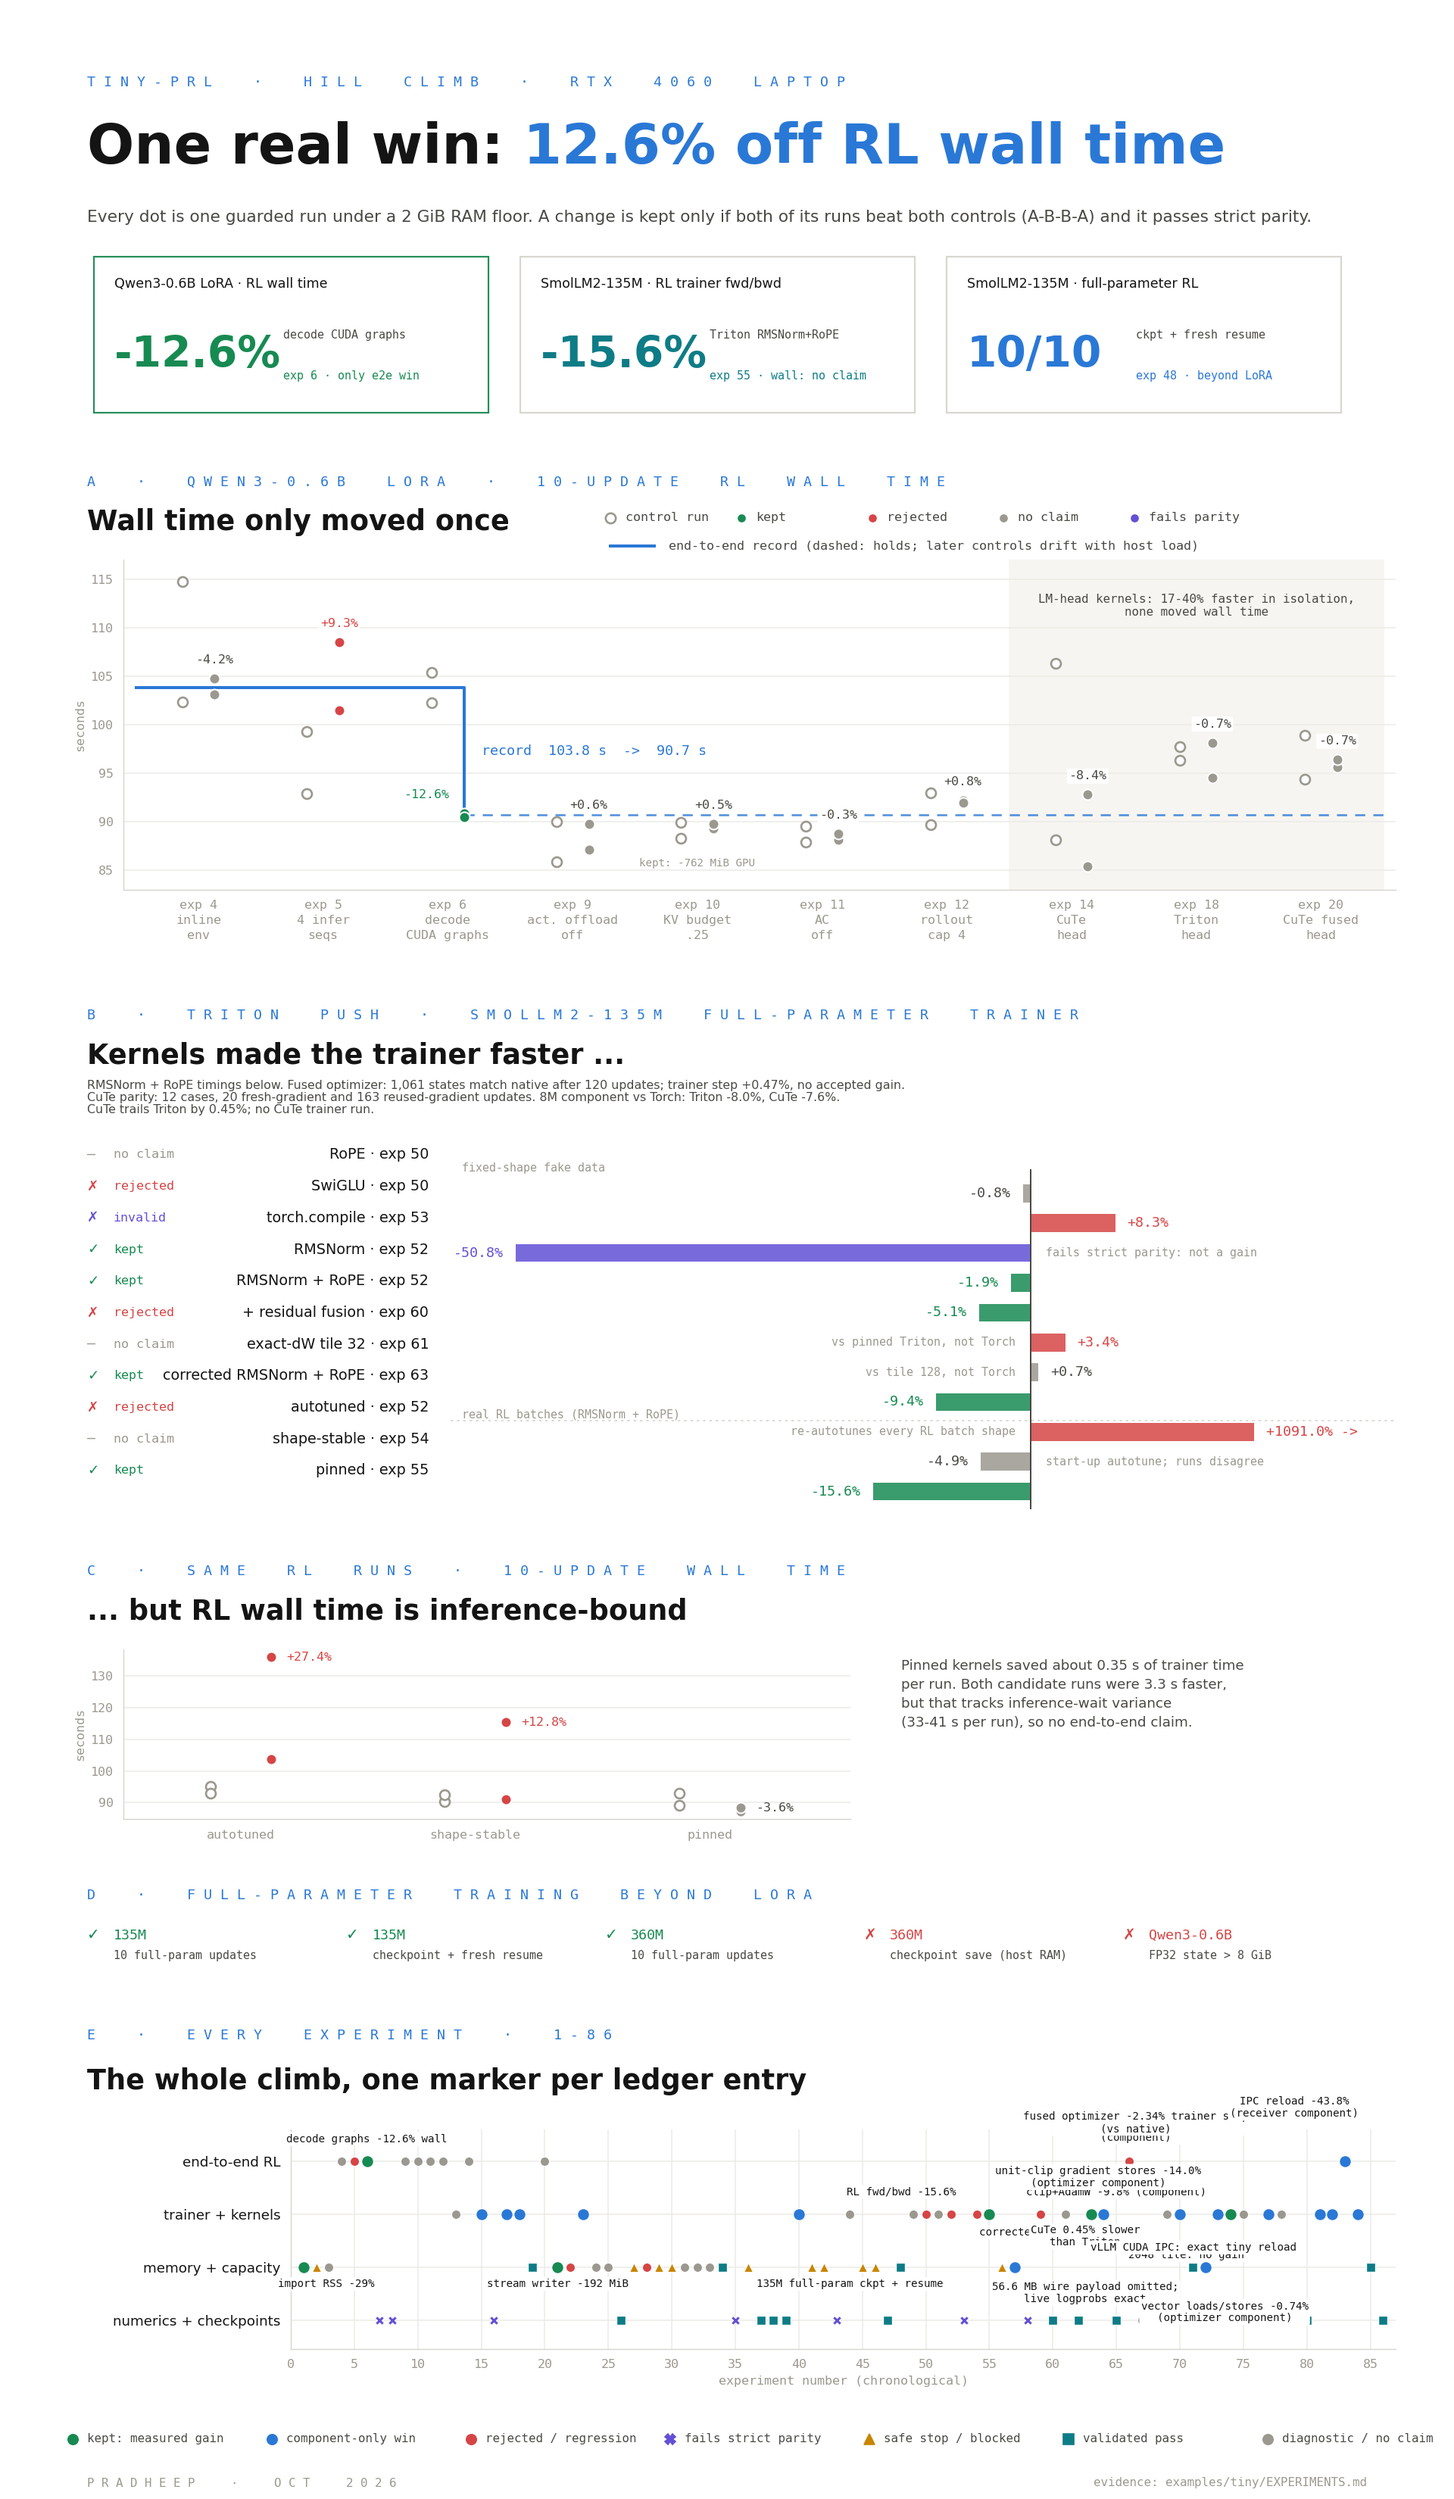
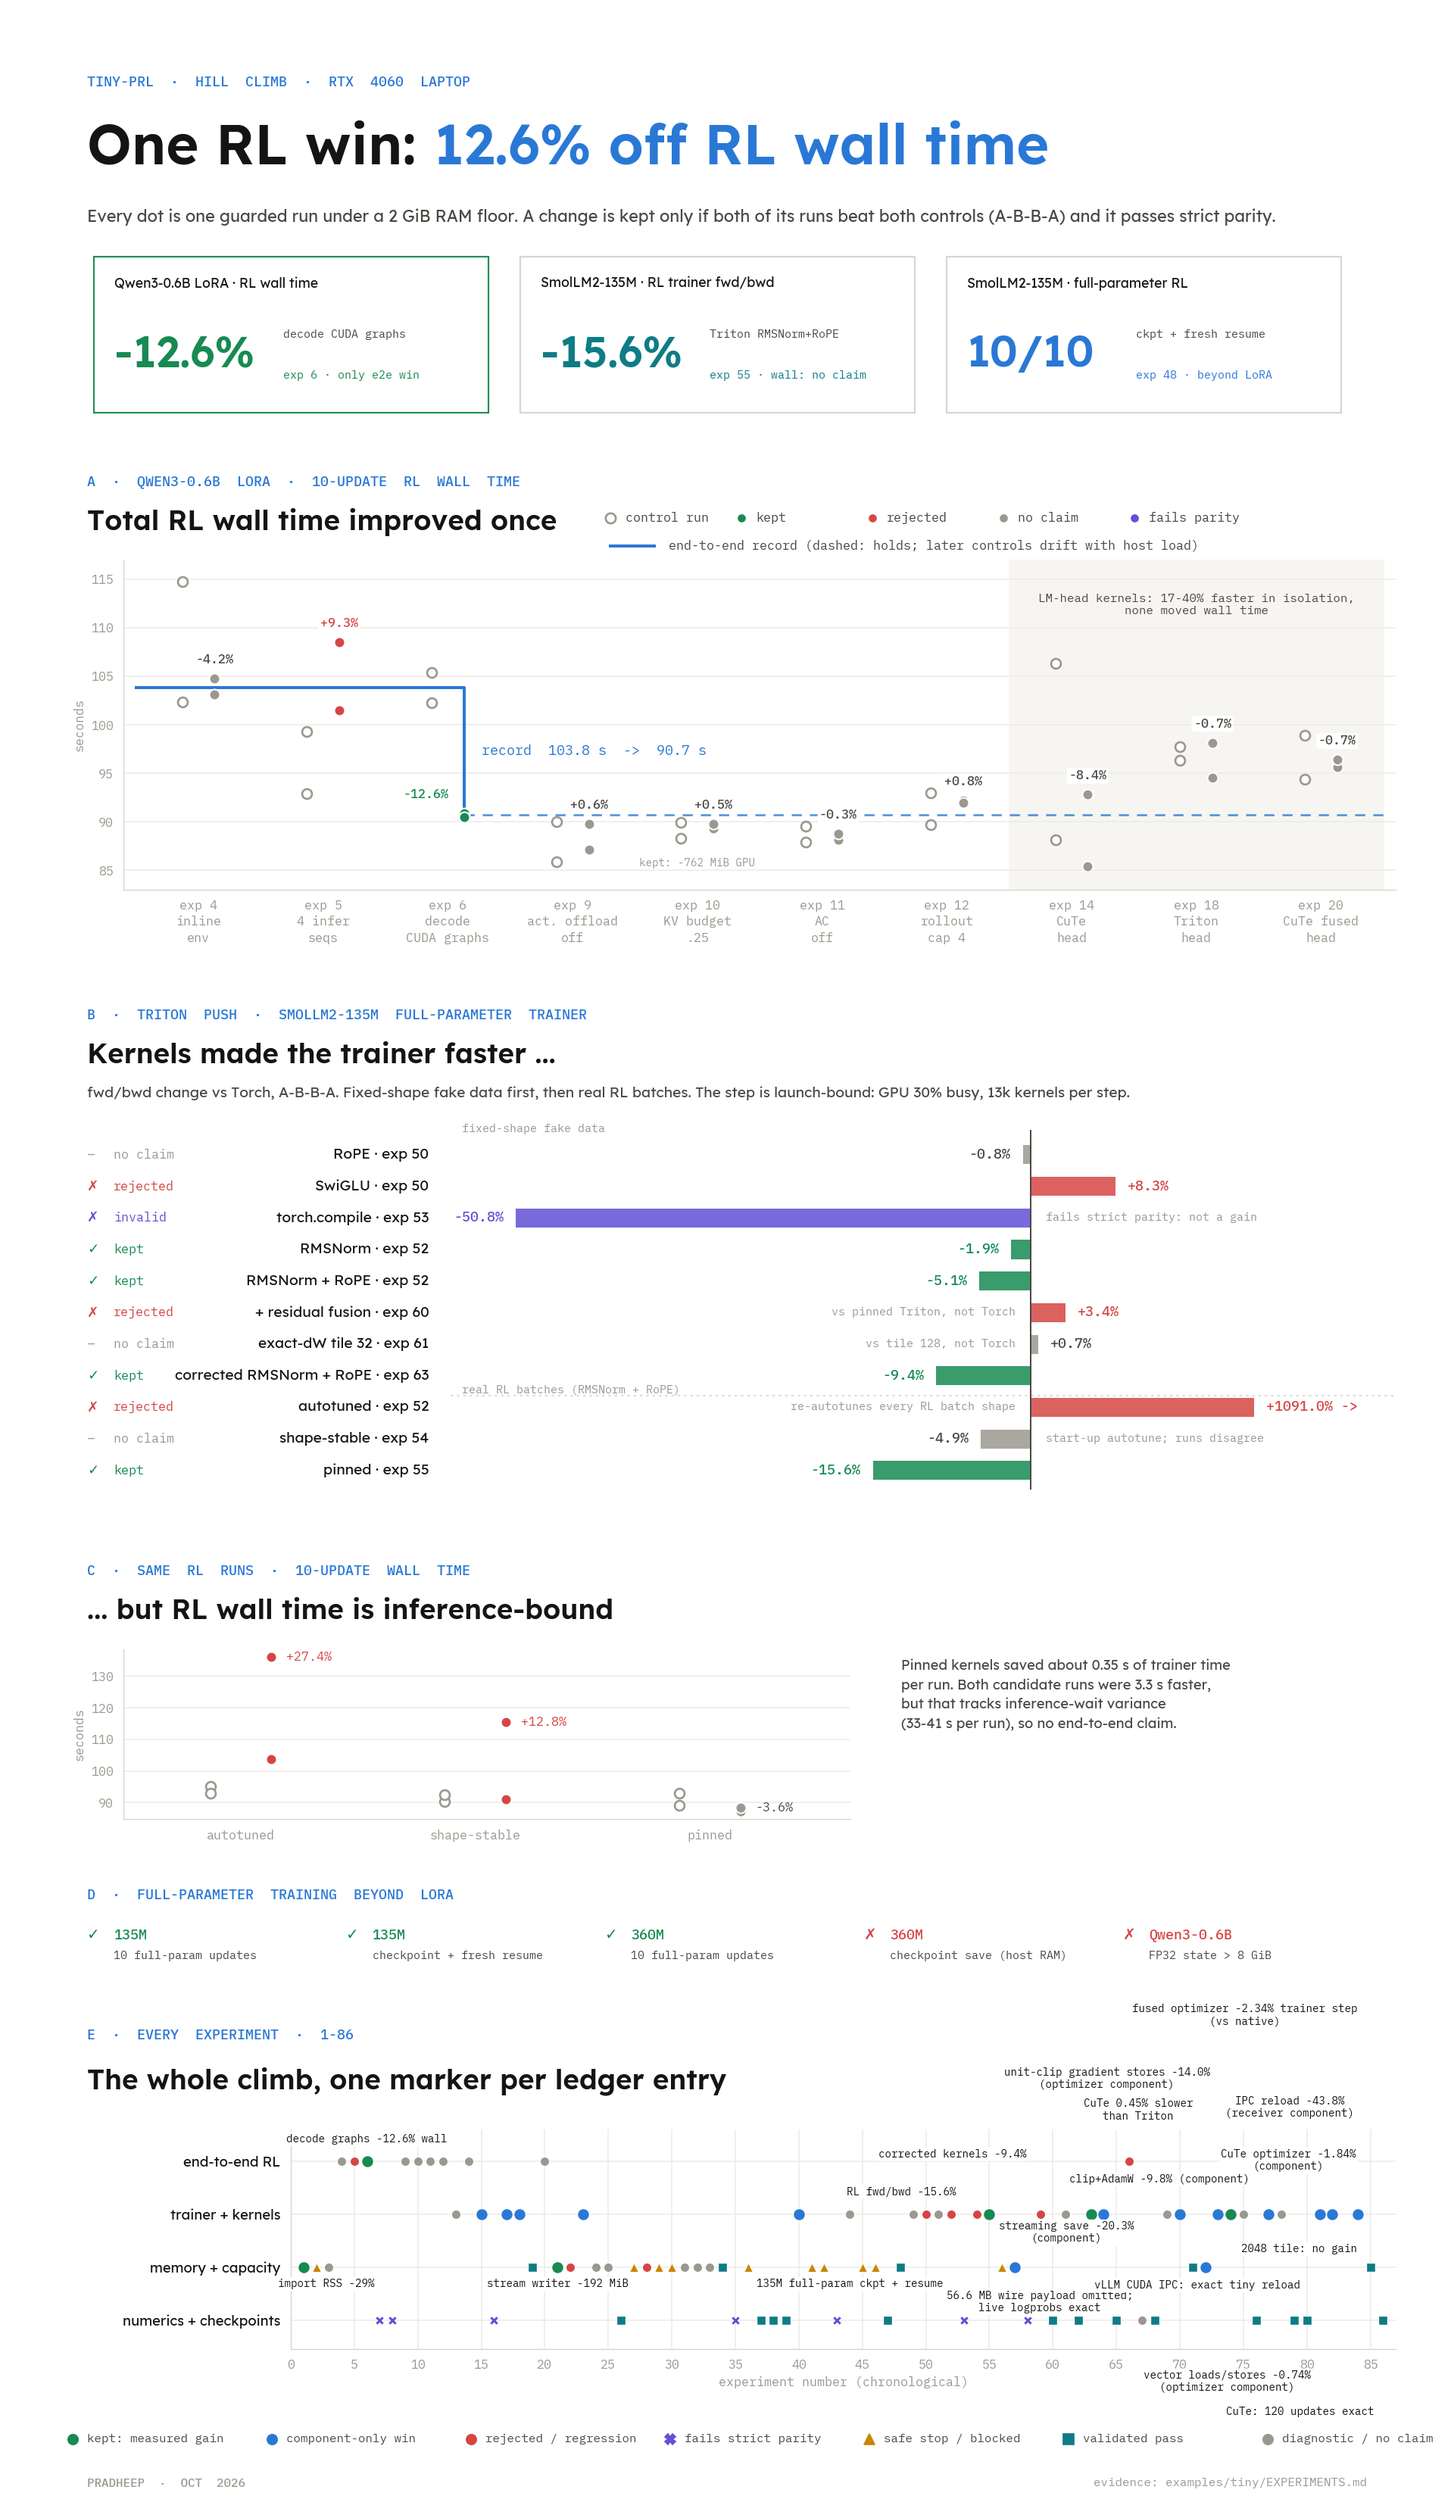
Restore hillclimb fonts and clarify RL timing scope

diff --git a/tools/plot_tiny_hillclimb.py b/tools/plot_tiny_hillclimb.py
@@ -190,17 +190,19 @@ CALLOUTS = {
     21: ("stream writer -192 MiB", (0, -16)),
     48: ("135M full-param ckpt + resume", (-40, -16)),
     55: ("RL fwd/bwd -15.6%", (-70, 15)),
-    63: ("corrected kernels -9.4%", (-30, -17)),
-    64: ("clip+AdamW -9.8% (component)", (10, 15)),
-    70: ("CuTe 0.45% slower\nthan Triton", (-75, -25)),
-    71: ("56.6 MB wire payload omitted;\nlive logprobs exact", (-85, -28)),
-    72: ("streaming save -20.3%\n(component)", (-55, 100)),
-    73: ("unit-clip gradient stores -14.0%\n(optimizer component)", (-95, 22)),
-    74: ("fused optimizer -2.34% trainer step\n(vs native)", (-75, 65)),
-    75: ("2048 tile: no gain", (-45, -35)),
-    77: ("vector loads/stores -0.74%\n(optimizer component)", (-35, -85)),
-    79: ("vLLM CUDA IPC: exact tiny reload", (-80, 55)),
-    83: ("IPC reload -43.8%\n(receiver component)", (-40, 35)),
+    63: ("corrected kernels -9.4%", (-110, 45)),
+    64: ("clip+AdamW -9.8% (component)", (44, 25)),
+    70: ("CuTe 0.45% slower\nthan Triton", (-33, 75)),
+    71: ("56.6 MB wire payload omitted;\nlive logprobs exact", (-121, -35)),
+    72: ("streaming save -20.3%\n(component)", (-110, 20)),
+    73: ("unit-clip gradient stores -14.0%\n(optimizer component)", (-88, 100)),
+    74: ("fused optimizer -2.34% trainer step\n(vs native)", (11, 150)),
+    75: ("2048 tile: no gain", (44, -30)),
+    77: ("vector loads/stores -0.74%\n(optimizer component)", (-33, -140)),
+    79: ("vLLM CUDA IPC: exact tiny reload", (-77, 25)),
+    83: ("IPC reload -43.8%\n(receiver component)", (-44, 35)),
+    84: ("CuTe optimizer -1.84%\n(component)", (-55, 35)),
+    86: ("CuTe: 120 updates exact", (-66, -75)),
 }
 
 MILESTONES = [
@@ -349,7 +351,7 @@ def eyebrow(fig, x, y, text, mono, color=YELLOW, size=11):
     fig.text(
         x,
         y,
-        "  ".join(text.upper().split(" ")).replace("", " ")[1:-1],
+        "  ".join(text.upper().split(" ")),
         fontsize=size,
         color=color,
         fontfamily=mono,
@@ -414,7 +416,7 @@ def main() -> None:
     # Header.
     eyebrow(fig, 0.06, 0.957, "tiny-prl · hill climb · rtx 4060 laptop", mono)
     title_kw = {"fontsize": 44, "fontweight": "semibold", "fontfamily": sans}
-    lead = "One real win: "
+    lead = "One RL win: "
     accent = "12.6% off RL wall time"
     fig.text(0.06, 0.918, lead, color=INK, **title_kw)
     lead_w = text_width(fig, lead, **title_kw)
@@ -462,7 +464,7 @@ def main() -> None:
 
     # Panel A: Qwen LoRA end-to-end record.
     eyebrow(fig, 0.06, 0.757, "a · qwen3-0.6b lora · 10-update rl wall time", mono)
-    fig.text(0.06, 0.735, "Wall time only moved once", fontsize=22, color=INK, fontweight="semibold")
+    fig.text(0.06, 0.735, "Total RL wall time improved once", fontsize=22, color=INK, fontweight="semibold")
     ax = fig.add_axes([0.085, 0.555, 0.875, 0.165])
     style_axes(ax, mono)
     record = None
@@ -531,15 +533,13 @@ def main() -> None:
     fig.text(0.06, 0.468, "Kernels made the trainer faster ...", fontsize=22, color=INK, fontweight="semibold")
     fig.text(
         0.06,
-        0.443,
-        "RMSNorm + RoPE timings below. Fused optimizer: 1,061 states match native after 120 updates; trainer step +0.47%, no accepted gain.\n"
-        "CuTe parity: 12 cases, 20 fresh-gradient and 163 reused-gradient updates. 8M component vs Torch: Triton -8.0%, CuTe -7.6%.\n"
-        "CuTe trails Triton by 0.45%; no CuTe trainer run.",
-        fontsize=9.5,
+        0.451,
+        "fwd/bwd change vs Torch, A-B-B-A. Fixed-shape fake data first, then real RL batches. "
+        "The step is launch-bound: GPU 30% busy, 13k kernels per step.",
+        fontsize=11.5,
         color=INK_2,
-        linespacing=1.1,
     )
-    ax = fig.add_axes([0.31, 0.245, 0.65, 0.17])
+    ax = fig.add_axes([0.31, 0.255, 0.65, 0.18])
     ax.set_facecolor(BG)
     ax.axis("off")
     clip = 22
